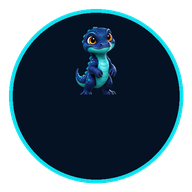
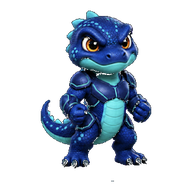
Brand Chatwoot login in custom image

diff --git a/branding/chatwoot/public/crm-komodo-superadmin.css b/branding/chatwoot/public/crm-komodo-superadmin.css
@@ -1,0 +1,66 @@
+:root {
+  --crm-bg: #061321;
+  --crm-panel: rgba(5, 17, 31, 0.82);
+  --crm-panel-border: rgba(95, 182, 255, 0.34);
+  --crm-text: #eef4fb;
+  --crm-muted: #9db3cc;
+  --crm-primary: #2167f3;
+  --crm-primary-hover: #438bff;
+}
+
+html,
+body {
+  min-height: 100%;
+  background: var(--crm-bg) !important;
+}
+
+body main {
+  min-height: 100vh !important;
+  background:
+    linear-gradient(90deg, rgba(2, 9, 18, 0.3), rgba(2, 9, 18, 0.86)),
+    url("/oncoorch-login-bg.jpg") center / cover no-repeat !important;
+  color: var(--crm-text) !important;
+}
+
+body main > section:first-child img {
+  height: 72px !important;
+  max-width: 330px !important;
+  object-fit: contain !important;
+  filter: drop-shadow(0 18px 32px rgba(0, 0, 0, 0.32));
+}
+
+body main > section:first-child h2 {
+  color: var(--crm-text) !important;
+  font-weight: 800 !important;
+  letter-spacing: 0 !important;
+  text-shadow: 0 10px 36px rgba(0, 0, 0, 0.52);
+}
+
+body main > section:nth-child(2) {
+  background: var(--crm-panel) !important;
+  border: 1px solid var(--crm-panel-border) !important;
+  border-radius: 20px !important;
+  box-shadow: 0 26px 80px rgba(0, 0, 0, 0.44) !important;
+  backdrop-filter: blur(14px);
+}
+
+body main label {
+  color: var(--crm-text) !important;
+}
+
+body main input {
+  background: rgba(4, 14, 27, 0.88) !important;
+  border: 1px solid rgba(95, 182, 255, 0.36) !important;
+  color: var(--crm-text) !important;
+  box-shadow: none !important;
+}
+
+body main input::placeholder {
+  color: var(--crm-muted) !important;
+}
+
+body main button[type="submit"] {
+  background: linear-gradient(135deg, var(--crm-primary), var(--crm-primary-hover)) !important;
+  border-radius: 10px !important;
+  font-weight: 800 !important;
+}

diff --git a/README.md b/README.md
@@ -75,7 +75,8 @@ Todas las llamadas al bridge deben enviar el header `x-crm-secret` con el valor 
 Este repositorio incluye scripts para operar VPS nuevos con la misma base madura observada en los laboratorios:
 
 - `scripts/chatwoot_config_sync.sh`: sincroniza nombre publico, URLs y parametros visibles de Chatwoot desde variables de entorno.
-- `scripts/chatwoot_branding_assets.sh`: aplica imagenes e iconos autorizados desde `branding/chatwoot/public`.
+- `docker/chatwoot/Dockerfile`: construye la imagen `CRM-Komodo` desde la imagen base de Chatwoot, copiando branding y parcheando el login de SuperAdmin durante el build.
+- `scripts/chatwoot_branding_assets.sh`: aplica imagenes e iconos autorizados desde `branding/chatwoot/public` al VPS actual.
 - `scripts/install_maintenance_cron.sh`: instala las tareas periodicas en el servidor.
 - `scripts/n8n_export_backup.sh`: exporta workflows y credenciales de n8n a `private/n8n-backups`.
 - `scripts/n8n_seed_import.sh`: importa automaticamente workflows y credenciales semilla en n8n durante el despliegue.
@@ -105,7 +106,7 @@ Los respaldos y secretos reales deben quedar bajo `private/`, que esta excluida 
 
 ## Politica de licencia y marca
 
-Este repo evita automatizar desbloqueos, bypasses de licencia o reemplazos de marca no verificables. Si se usa una imagen custom de Chatwoot entregada por el proveedor o construida bajo licencia, configurala con `CHATWOOT_IMAGE`.
+Este repo evita automatizar desbloqueos, bypasses de licencia o reemplazos de marca no verificables. Si se usa una imagen custom de Chatwoot entregada por el proveedor o construida bajo licencia, configurala como `CHATWOOT_IMAGE`; el runtime final se construye como `CHATWOOT_RUNTIME_IMAGE`.
 
 Evolution API usa por defecto `EVOLUTION_IMAGE=evoapicloud/evolution-api:v2.2.3`, reemplazando la ruta historica `atendai/evolution-api:v2.2.3`.
 

diff --git a/docs/dokploy-runbook.md b/docs/dokploy-runbook.md
@@ -55,8 +55,13 @@ MCP_SHARED_SECRET
 Si se usa imagen custom autorizada:
 
 ```text
-CHATWOOT_IMAGE=omnicem/chatwoot:reports-c0b1b1c3e
+CHATWOOT_IMAGE=chatwoot/chatwoot:v4.6.0
+CHATWOOT_RUNTIME_IMAGE=crm-agentico-chatwoot:latest
 ```
+
+`CHATWOOT_IMAGE` es la imagen base. Si tienes una imagen entregada por el
+proveedor/licencia, reemplazala ahi. `CHATWOOT_RUNTIME_IMAGE` es la imagen final
+que Dokploy construye desde este repositorio con branding y login parcheado.
 
 Evolution API:
 
@@ -87,6 +92,21 @@ n8n_redis
 evolution_postgres
 evolution_redis
 ```
+
+## Variables en Dokploy
+
+Coloca las variables en el `Environment` del recurso Docker Compose. Dokploy
+crea el `.env` del deploy y Compose las lee con `${VARIABLE}`.
+
+La variable de credenciales n8n debe ir en una sola linea:
+
+```text
+N8N_SEED_CREDENTIALS_TGZ_B64=<contenido completo de private/n8n-seed/N8N_SEED_CREDENTIALS_TGZ_B64.txt>
+```
+
+Si ya esta en el `Environment` del recurso, no hace falta duplicarla en
+`Project Environment`. Usa `Project Environment` solo para variables compartidas
+por varias aplicaciones y referencialas desde el recurso.
 
 ## 5. Smoke tests
 

diff --git a/CONTEXTO_GPT.md b/CONTEXTO_GPT.md
@@ -26,6 +26,7 @@ Este archivo permite continuar el trabajo en otra conversacion.
 
 ## Scripts agregados
 
+- `docker/chatwoot/Dockerfile`: construye la imagen marcada `CRM-Komodo` desde `CHATWOOT_IMAGE`, copiando assets y parcheando el login de SuperAdmin durante build.
 - `scripts/chatwoot_config_sync.sh`: sincroniza nombre, URLs y configuraciones publicas autorizadas de Chatwoot.
 - `scripts/chatwoot_branding_assets.sh`: copia assets de marca autorizados al contenedor Chatwoot.
 - `scripts/install_maintenance_cron.sh`: instala cron para sync/branding.
@@ -59,7 +60,7 @@ Este archivo permite continuar el trabajo en otra conversacion.
 ## Linea de seguridad
 
 - No guardar `.env` reales ni backups privados en GitHub.
-- Usar `CHATWOOT_IMAGE` para imagen autorizada/custom.
+- Usar `CHATWOOT_IMAGE` para imagen base autorizada/custom. El compose construye `CHATWOOT_RUNTIME_IMAGE` con branding y login parcheado.
 - Scripts de branding/config sync son parametrizables y no modifican plan/licencia.
 
 ## Siguiente paso natural

diff --git a/docs/host-operations.md b/docs/host-operations.md
@@ -65,7 +65,9 @@ Wrapper corto:
 
 ## `chatwoot_branding_assets.sh`
 
-Aplica imagenes desde `/opt/crm_branding` al contenedor Chatwoot:
+Aplica imagenes desde `/opt/crm_branding` al contenedor Chatwoot. Tambien
+aplica el parche visual de SuperAdmin: fondo de login, favicon, saludo y textos
+basicos de acceso.
 
 ```bash
 sudo mkdir -p /opt/crm_branding
@@ -77,6 +79,17 @@ Wrapper corto:
 
 ```bash
 /opt/crm-agentico/bin/crm-komodo-branding-apply
+```
+
+## `chatwoot_superadmin_ui_patch.sh`
+
+Parche posdeploy para la interfaz Rails de SuperAdmin. Normalmente se ejecuta
+desde `chatwoot_branding_assets.sh`; usalo directamente solo si quieres reaplicar
+el login sin volver a copiar imagenes.
+
+```bash
+cd /opt/crm-agentico
+scripts/chatwoot_superadmin_ui_patch.sh
 ```
 
 ## Respaldo diario de workflows n8n hacia GitHub
